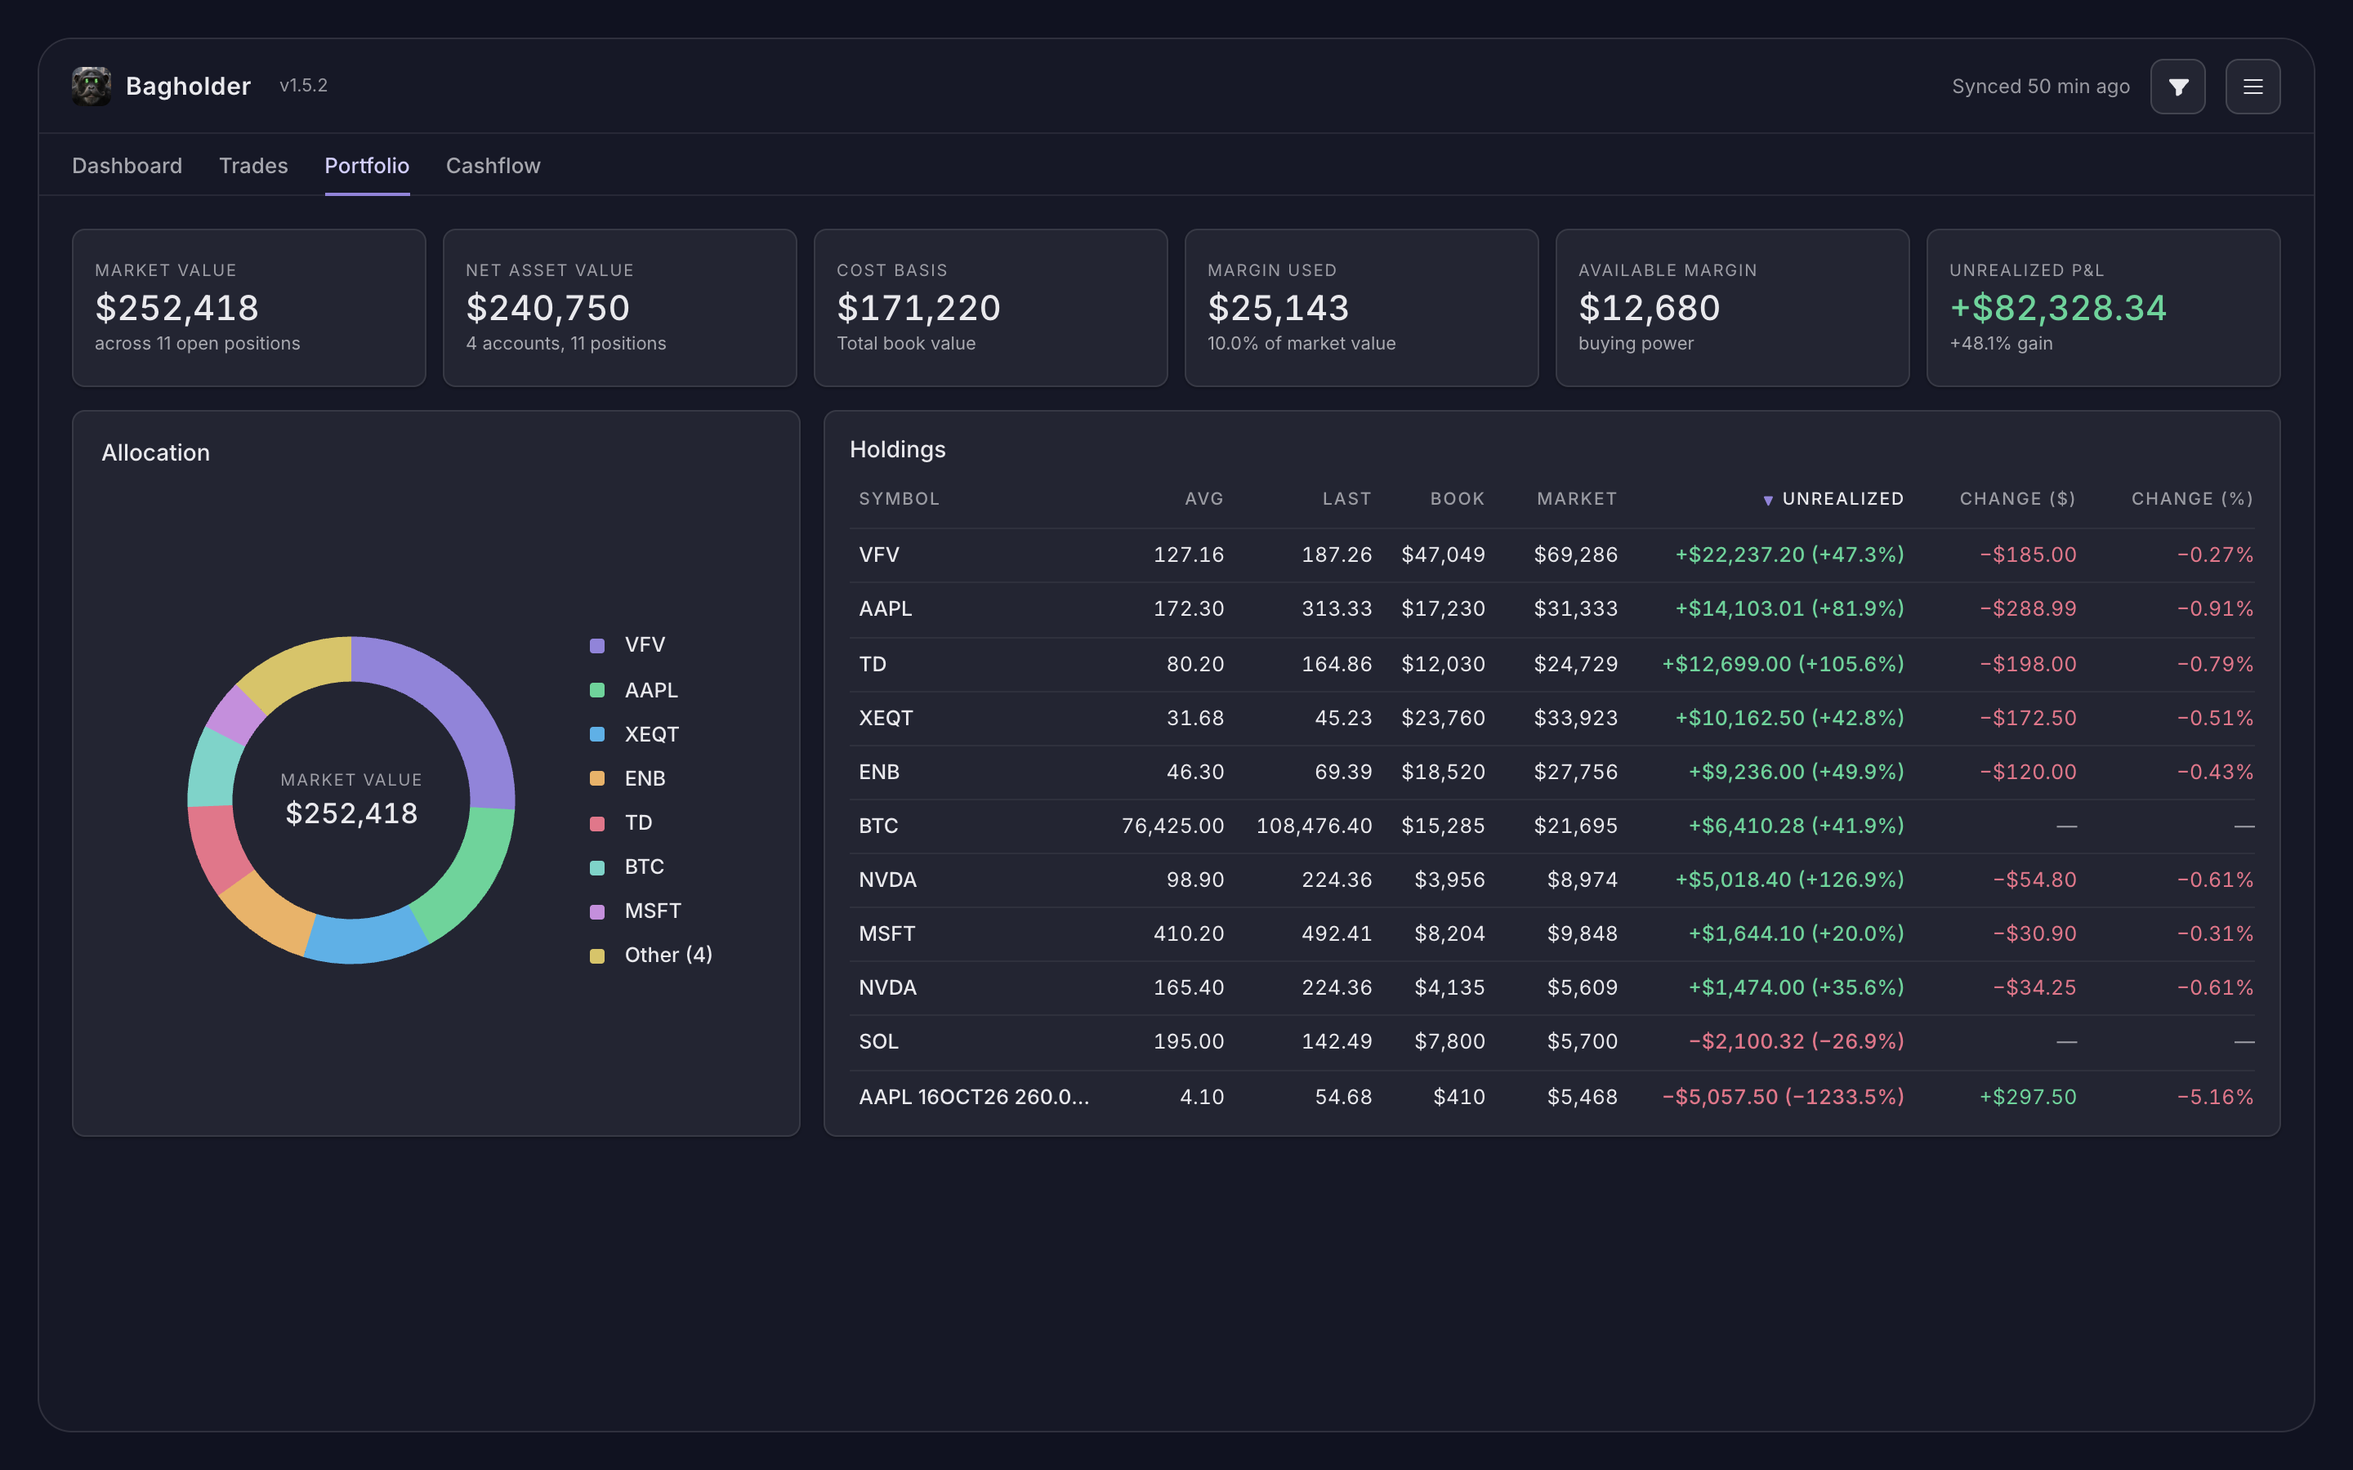
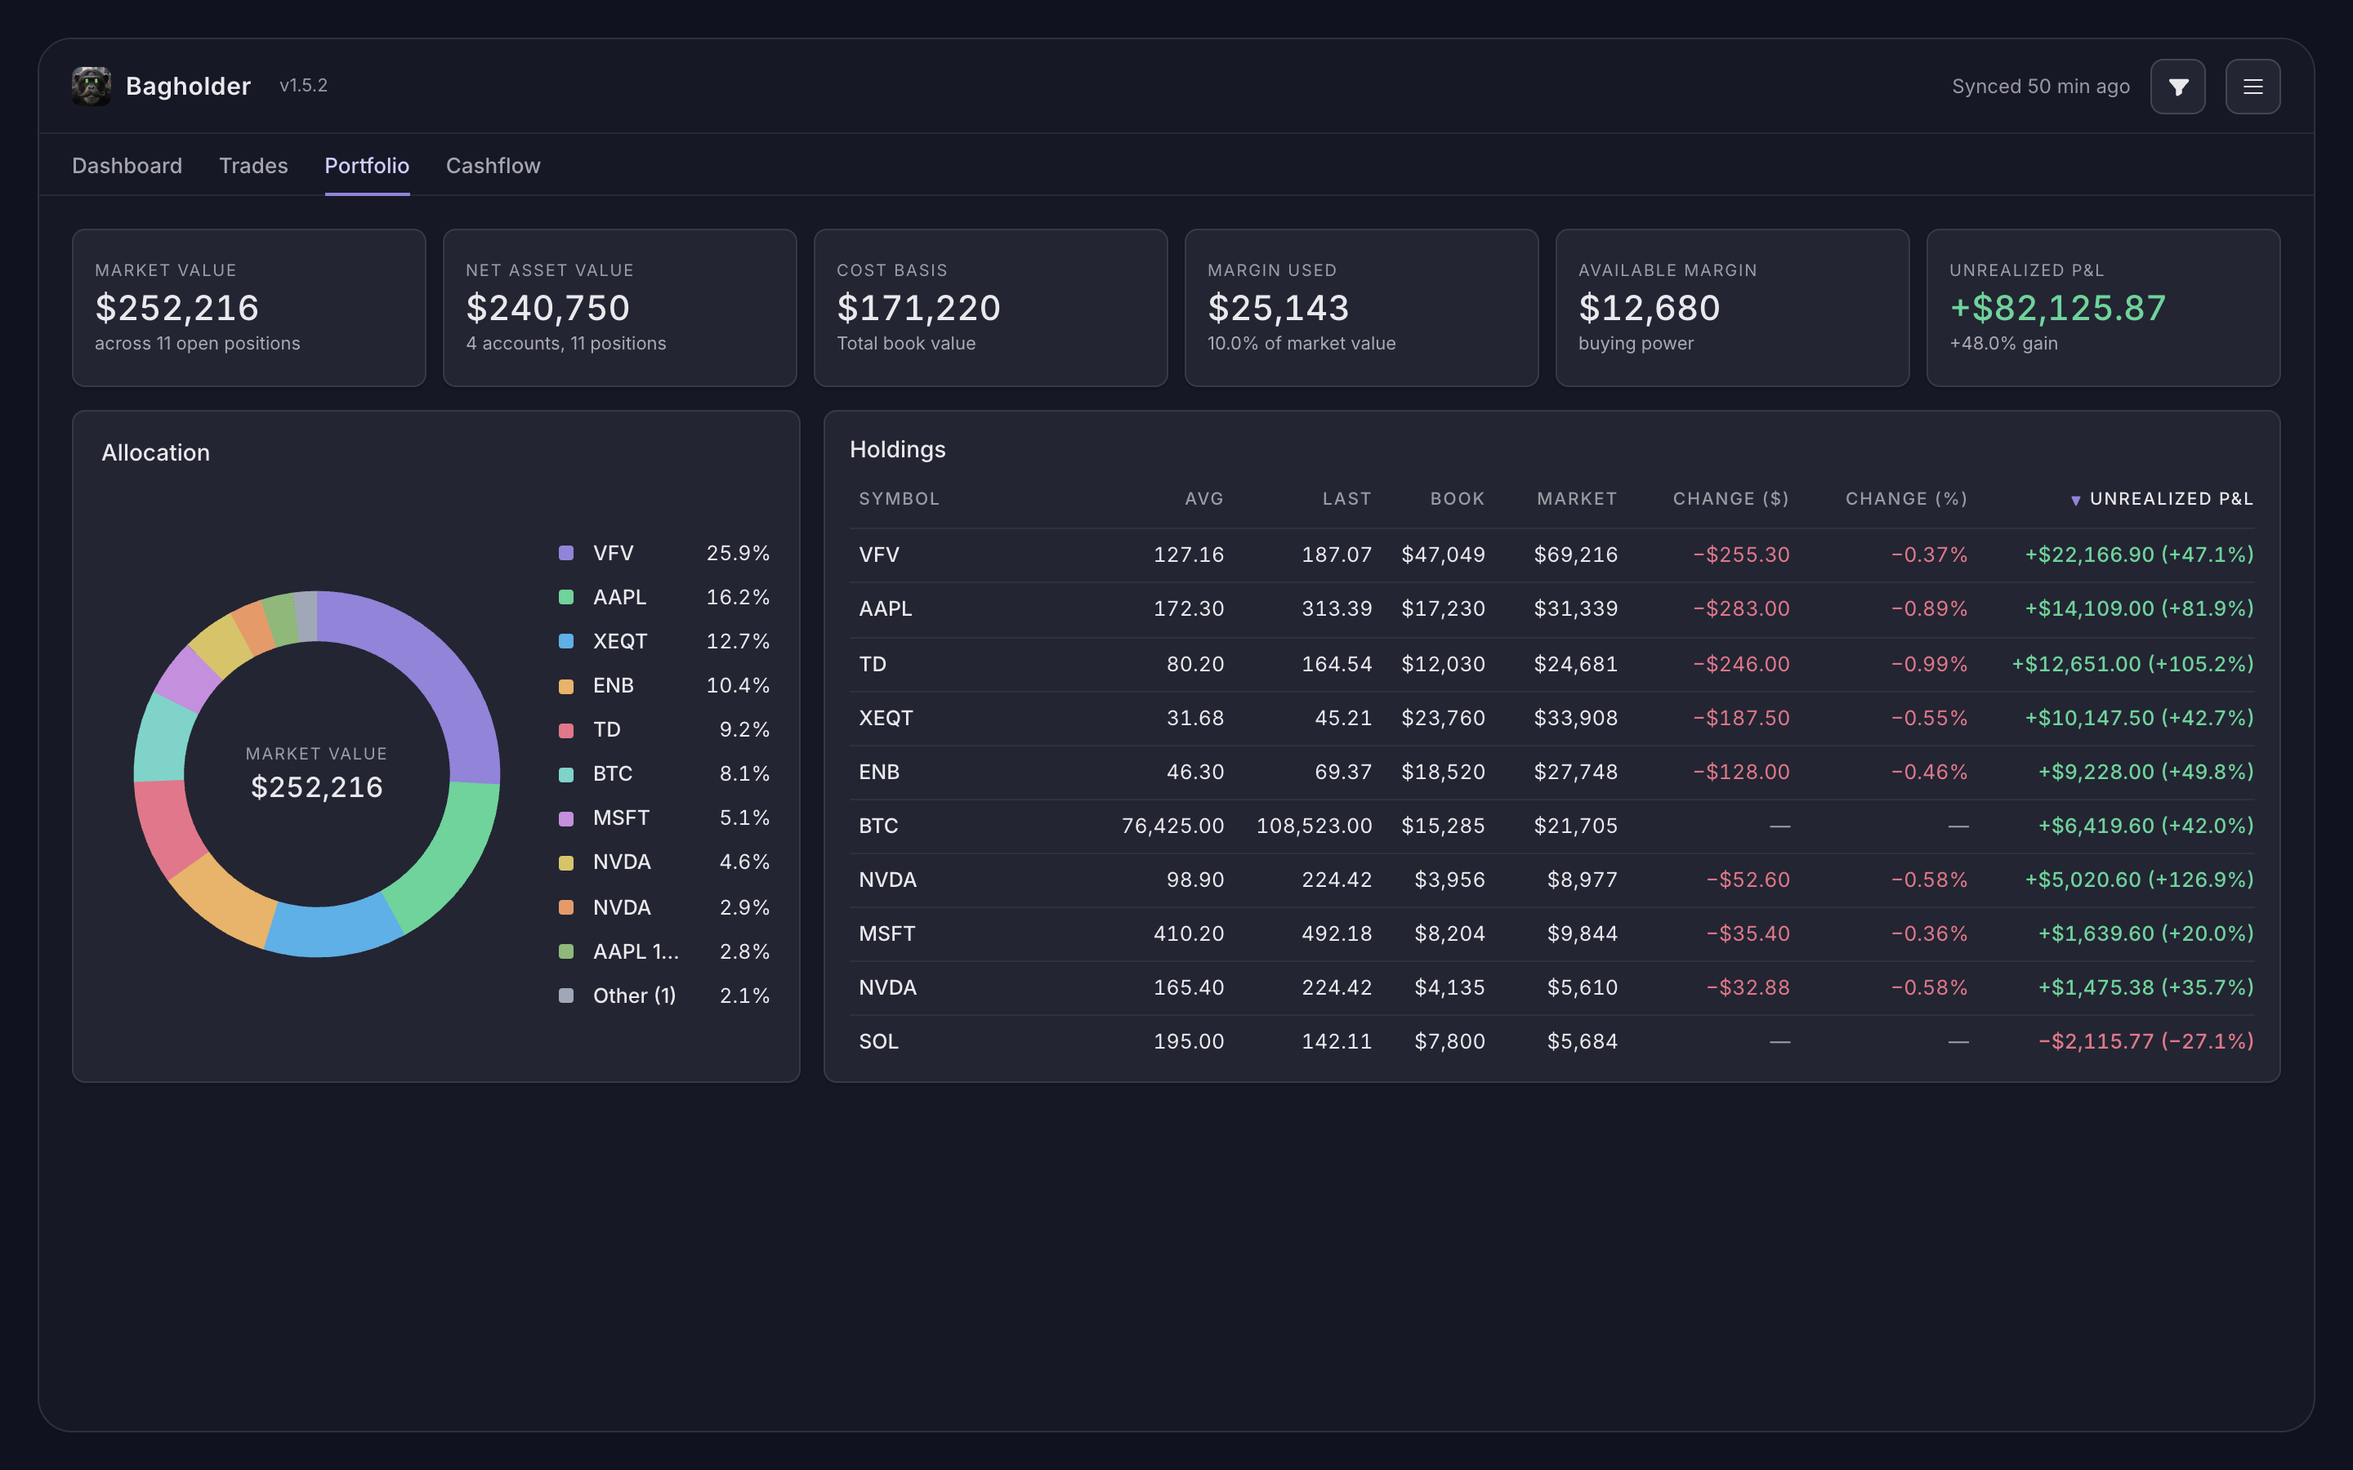
Portfolio: the Allocation card no longer grows with the Holdings card.
Holdings shows ten rows and scrolls inside the card past that, its
columns ending Change ($) · Change (%) · Unrealized P&L. Allocation: a
larger donut sized from the card so it shrinks only below 1440 px, one
slice each up to ten holdings and Other (N) only beyond that, the
legend showing each symbol with its share; three palette colours added
so eleven slices never repeat. SPEC §4 updated; the README desktop
image reshot.

diff --git a/ledger.html b/ledger.html
@@ -18,7 +18,7 @@ html{color-scheme:dark}
   --shadow-sm:0 1px 2px rgba(0,0,0,.28);--shadow-md:0 10px 28px rgba(0,0,0,.45),0 0 0 1px rgba(233,233,237,.06);
   --font:Inter,system-ui,-apple-system,"Segoe UI",Roboto,sans-serif;--font-num:var(--font);--brand-color:var(--ink);--brand-transform:none;--brand-spacing:.02em;--outline:.1;--field:rgba(22,24,38,.55);
   --chip-bg:var(--accent-900);--chip-fg:var(--accent-300);--chip-hi:rgba(145,132,217,.18);
-  --pie-1:#9184d9;--pie-2:#6fd39b;--pie-3:#5fb0e6;--pie-4:#e8b36a;--pie-5:#e0778a;--pie-6:#7fd3c9;--pie-7:#c48fdc;--pie-8:#d7c46a;
+  --pie-1:#9184d9;--pie-2:#6fd39b;--pie-3:#5fb0e6;--pie-4:#e8b36a;--pie-5:#e0778a;--pie-6:#7fd3c9;--pie-7:#c48fdc;--pie-8:#d7c46a;--pie-9:#e59a6a;--pie-10:#8fb87a;--pie-11:#a0a8b8;
   --pos-rgb:111,211,155;--neg-rgb:224,119,138;--accent-rgb:145,132,217;--accent-bar:var(--accent);--hover:.08;--area:.22;--well:var(--n900);--well-line:.12;
 }
 html[data-theme="midnight"]{
@@ -29,7 +29,7 @@ html[data-theme="midnight"]{
   --font-num:ui-monospace,"JetBrains Mono","SF Mono",Menlo,monospace;--outline:.14;--field:rgba(4,5,9,.6);
   --chip-bg:rgba(230,232,238,.1);--chip-fg:rgba(230,232,238,.82);--chip-hi:rgba(230,232,238,.12);
   --pos-rgb:63,214,138;--neg-rgb:255,107,122;--accent-rgb:63,214,138;
-  --pie-1:#3fd68a;--pie-2:#5fb0e6;--pie-3:#9184d9;--pie-4:#e8b36a;--pie-5:#ff6b7a;--pie-6:#7fd3c9;--pie-7:#c48fdc;--pie-8:#d7c46a;
+  --pie-1:#3fd68a;--pie-2:#5fb0e6;--pie-3:#9184d9;--pie-4:#e8b36a;--pie-5:#ff6b7a;--pie-6:#7fd3c9;--pie-7:#c48fdc;--pie-8:#d7c46a;--pie-9:#f0955f;--pie-10:#a3c96f;--pie-11:#9aa4b5;
 }
 html[data-theme="light"]{color-scheme:light;
   --mat:#e0e2ea;--bg:#eef0f5;--surface:#fafafc;--n900:#f1f2f6;--accent:#6b5cd6;--accent-300:#4a3bb8;--accent-900:#e9e6fa;--accent-bar:#a89ee6;
@@ -37,7 +37,7 @@ html[data-theme="light"]{color-scheme:light;
   --hair:rgba(27,29,39,.12);--grid:rgba(27,29,39,.06);--pos:#2e8a62;--neg:#c0505f;--mixed:#9a95c4;--pos-rgb:46,138,98;--neg-rgb:192,80,95;--accent-rgb:107,92,214;
   --shadow-sm:0 1px 2px rgba(20,22,40,.06);--shadow-md:0 10px 28px rgba(20,22,40,.14),0 0 0 1px rgba(27,29,39,.08);
   --outline:.08;--field:rgba(27,29,39,.04);--hover:.045;--area:.16;--well:transparent;--well-line:.09;
-  --pie-1:#a89ee6;--pie-2:#8fd4b4;--pie-3:#93c4ec;--pie-4:#f0c98c;--pie-5:#eea3ae;--pie-6:#9adbd4;--pie-7:#cfaee6;--pie-8:#e0d48c;
+  --pie-1:#a89ee6;--pie-2:#8fd4b4;--pie-3:#93c4ec;--pie-4:#f0c98c;--pie-5:#eea3ae;--pie-6:#9adbd4;--pie-7:#cfaee6;--pie-8:#e0d48c;--pie-9:#f2b592;--pie-10:#b9d69c;--pie-11:#b6bec9;
 }
 *{box-sizing:border-box}
 html,body{margin:0;background:var(--mat);color:var(--ink);color-scheme:dark}
@@ -1210,15 +1210,15 @@ function portfolioTilesHtml(pf) {
 }
 function portfolioSlices(pf) {
   const all = pf.allocation || [];
-  const top = all.slice(0, 7), rest = all.slice(7);
+  const top = all.length > 10 ? all.slice(0, 10) : all, rest = all.slice(top.length);
   const items = top.map((x) => ({ label: x.symbol, v: x.value, share: x.share }));
   if (rest.length) items.push({ label: "Other (" + rest.length + ")", v: rest.reduce((a, x) => a + x.value, 0), share: rest.reduce((a, x) => a + x.share, 0) });
-  items.forEach((x, i) => { x.color = "var(--pie-" + ((i % 8) + 1) + ")"; });
+  items.forEach((x, i) => { x.color = "var(--pie-" + ((i % 11) + 1) + ")"; });
   return { total: pf.marketValue || 0, items };
 }
 function portfolioPieHtml(pf) {
   const p = portfolioSlices(pf);
-  const R = 44, W = 14, C = 60, SIZE = 236;
+  const R = 44, W = 14, C = 60, SIZE = 264;
   let acc = 0;
   const arcs = p.items.map((x, i) => {
     const a0 = acc * 2 * Math.PI - Math.PI / 2, a1 = (acc + x.share) * 2 * Math.PI - Math.PI / 2;
@@ -1230,11 +1230,11 @@ function portfolioPieHtml(pf) {
   }).join("");
   return '<div class="card elev-sm" style="padding:16px 18px 12px;display:flex;flex-direction:column;min-height:0">' +
     '<div style="display:flex;align-items:baseline;justify-content:space-between;gap:8px;margin-bottom:10px"><h5>Allocation</h5></div>' +
-    (p.items.length ? '<div id="ppiePlot" data-hover="ppie" style="display:flex;gap:28px;align-items:center;justify-content:center;flex:1;min-height:0">' +
-      '<div style="position:relative;width:' + SIZE + 'px;height:' + SIZE + 'px;flex:none"><svg viewBox="0 0 120 120" style="width:' + SIZE + 'px;height:' + SIZE + 'px;display:block">' + arcs + "</svg>" +
+    (p.items.length ? '<div id="ppiePlot" data-hover="ppie" style="display:flex;gap:16px;align-items:center;justify-content:center;flex:1;min-height:0">' +
+      '<div style="position:relative;flex:none;width:max(200px, min(' + SIZE + 'px, 100% - 140px));aspect-ratio:1/1"><svg viewBox="0 0 120 120" style="width:100%;height:100%;display:block">' + arcs + "</svg>" +
       '<div id="ppieCentre" style="position:absolute;inset:0;display:flex;flex-direction:column;align-items:center;justify-content:center;text-align:center;pointer-events:none"><div class="lbl">Market value</div><div class="tab" style="font-size:17px;font-weight:500;margin-top:2px">' + money0(p.total) + "</div></div></div>" +
-      '<div id="ppieLegend" class="scroll" style="flex:none;min-width:0;min-height:0;max-height:100%;display:grid;grid-template-columns:auto auto;column-gap:12px;row-gap:9px;align-content:center;align-items:center;font-size:12.5px">' +
-      p.items.map((x, i) => '<span data-slice="' + i + '" style="display:contents"><span style="width:9px;height:9px;border-radius:2px;background:' + x.color + '"></span><span style="font-weight:500;font-variant-numeric:normal;white-space:nowrap;overflow:hidden;text-overflow:ellipsis">' + esc(x.label) + "</span></span>").join("") +
+      '<div id="ppieLegend" class="scroll" style="flex:0 1 auto;min-width:0;min-height:0;max-height:100%;display:grid;grid-template-columns:auto minmax(0,1fr) auto;column-gap:12px;row-gap:9px;align-content:center;align-items:center;font-size:12.5px">' +
+      p.items.map((x, i) => '<span data-slice="' + i + '" style="display:contents"><span style="width:9px;height:9px;border-radius:2px;background:' + x.color + '"></span><span style="font-weight:500;font-variant-numeric:normal;white-space:nowrap;overflow:hidden;text-overflow:ellipsis">' + esc(x.label) + '</span><span class="tab" style="text-align:right;white-space:nowrap">' + pctPlain(x.share) + "</span></span>").join("") +
       "</div></div>" : '<div class="muted empty" style="flex:1;font-size:12px">No open positions in scope.</div>') + "</div>";
 }
 function ppieHover(e) {
@@ -1253,20 +1253,20 @@ function portfolioHtml(m) {
   const p = state.sel ? positionById(state.sel) : null;
   if (p) return '<div style="padding:20px;min-height:380px;display:flex;flex-direction:column;gap:14px">' + tradeDetailHtml(holdingAsTrade(p), m) + "</div>";
   const pf = m.portfolio || {};
-  const cols = [{ key: "symbol", label: "Symbol" }, { key: "avg", label: "Avg", align: "right" }, { key: "last", label: "Last", align: "right" }, { key: "cost", label: "Book", align: "right" }, { key: "mv", label: "Market", align: "right" }, { key: "unreal", label: "Unrealized", align: "right" }, { key: "day", label: "Change ($)", align: "right" }, { key: "dayPct", label: "Change (%)", align: "right", padRight: "0" }];
+  const cols = [{ key: "symbol", label: "Symbol" }, { key: "avg", label: "Avg", align: "right" }, { key: "last", label: "Last", align: "right" }, { key: "cost", label: "Book", align: "right" }, { key: "mv", label: "Market", align: "right" }, { key: "day", label: "Change ($)", align: "right" }, { key: "dayPct", label: "Change (%)", align: "right" }, { key: "unreal", label: "Unrealized P&L", align: "right", padRight: "0" }];
   const s = state.sort.positions;
   const rows = sortRows(m.positions || [], s.key, s.dir, posSortValue);
   return '<div style="padding:20px;min-height:380px;display:flex;flex-direction:column;gap:14px">' + portfolioTilesHtml(pf) +
     '<div style="display:grid;grid-template-columns:minmax(0,1fr) minmax(0,2fr);gap:14px;align-items:stretch">' + portfolioPieHtml(pf) +
-    '<div class="card elev-sm" style="padding:14px 16px 8px;display:flex;flex-direction:column;min-height:0;max-height:640px"><div style="display:flex;align-items:baseline;gap:10px;margin-bottom:8px"><h5>Holdings</h5></div>' +
-    '<div class="scroll-xy" data-keep-scroll="positions" style="flex:1;min-height:0"><table class="table" style="min-width:640px"><thead><tr>' + th("positions", cols) + "</tr></thead><tbody>" +
+    '<div class="card elev-sm" style="padding:14px 16px 8px;display:flex;flex-direction:column;min-height:0"><div style="display:flex;align-items:baseline;gap:10px;margin-bottom:8px"><h5>Holdings</h5></div>' +
+    '<div class="scroll-xy" data-keep-scroll="positions" style="flex:1;min-height:0;max-height:362px"><table class="table" style="min-width:640px"><thead><tr>' + th("positions", cols) + "</tr></thead><tbody>" +
     rows.map((r) => '<tr class="tab" style="cursor:pointer" data-act="openHolding" data-arg=\'' + attr({ id: r.id }) + "'>" +
       '<td title="' + esc(r.symbol) + ' · ' + esc(r.account) + '" style="font-weight:500;font-variant-numeric:normal;white-space:nowrap;max-width:140px;overflow:hidden;text-overflow:ellipsis">' + esc(r.symbol) + (r.short ? ' <span class="muted" style="font-size:10px">SHORT</span>' : "") + "</td>" +
       '<td style="text-align:right">' + px(r.avg) + '</td><td style="text-align:right">' + px(r.last) + "</td>" +
       '<td style="text-align:right">' + money0(r.cost, r.currency) + '</td><td style="text-align:right">' + money0(r.mv, r.currency) + "</td>" +
-      '<td style="text-align:right;white-space:nowrap;font-weight:500;color:' + color(r.unreal) + '">' + signedMoney(r.unreal, r.currency) + " (" + pct(r.unrealPct) + ")</td>" +
       '<td style="text-align:right;white-space:nowrap;color:' + (r.dayChange == null ? "var(--ink55)" : color(r.dayChange)) + '">' + (r.dayChange == null ? "—" : signedMoney(r.dayChange, r.currency)) + "</td>" +
-      '<td style="text-align:right;padding-right:0;color:' + (r.percentChange == null ? "var(--ink55)" : color(r.percentChange)) + '">' + (r.percentChange == null ? "—" : pct(r.percentChange / 100, 2)) + "</td></tr>").join("") +
+      '<td style="text-align:right;color:' + (r.percentChange == null ? "var(--ink55)" : color(r.percentChange)) + '">' + (r.percentChange == null ? "—" : pct(r.percentChange / 100, 2)) + "</td>" +
+      '<td style="text-align:right;padding-right:0;white-space:nowrap;font-weight:500;color:' + color(r.unreal) + '">' + signedMoney(r.unreal, r.currency) + " (" + pct(r.unrealPct) + ")</td></tr>").join("") +
     "</tbody></table>" + (rows.length ? "" : '<div class="muted" style="padding:26px 4px;font-size:12px">No open positions match these filters.</div>') + "</div></div></div></div>";
 }
 

diff --git a/SPEC.md b/SPEC.md
@@ -207,9 +207,9 @@ Six tiles in the style of the dashboard tiles, CAD aggregates over the accounts 
 
 Nothing on the tab is derived beyond these sums: Max buying power, Portfolio value and the interest panel of Wealthsimple's margin page have no source and are not shown.
 
-**Allocation.** A donut of the open positions in scope by market value in CAD, the seven largest and `Other (N)`, coloured from the eight-colour palette; the centre reads `Market value` and the total, or the hovered slice's value and share; the legend is the symbols. No toggle.
+**Allocation.** A donut of the open positions in scope by market value in CAD, one slice each up to ten, otherwise the ten largest and `Other (N)`, coloured from the eleven-colour palette; the centre reads `Market value` and the total, or the hovered slice's value and share; the legend is each slice's symbol and share. The card takes the height of the Holdings card beside it and does not grow. No toggle.
 
-**Holdings.** One row per open position: Symbol (`SHORT` on a short; the account is the row's title text, not shown) · Avg (average cost per unit) · Last (the current price) · Book · Market · Unrealized (`+$20.05 (+3.4%)`) · Change ($) · Change (%), sorted by Unrealized; the two Change columns are the day's move on the position from its quote's change and percent change, `—` without a quote. Avg, Last, Book, Market and the changes are in the position's currency.
+**Holdings.** One row per open position: Symbol (`SHORT` on a short; the account is the row's title text, not shown) · Avg (average cost per unit) · Last (the current price) · Book · Market · Change ($) · Change (%) · Unrealized P&L (`+$20.05 (+3.4%)`), sorted by Unrealized P&L; the two Change columns are the day's move on the position from its quote's change and percent change, `—` without a quote. Avg, Last, Book, Market and the changes are in the position's currency. The table shows ten rows and scrolls inside the card past that.
 
 **A holding.** Clicking a row opens the holding on the page a trade opens (§Trades), the position standing in for the trade: the symbol, name and listing; the unrealized P&L and its percentage at the top right; the chart with the fills so far; Open, Close (blank, since it is open), Entry (average cost), Exit (the current price), Hold (the days so far), Account; the executions; the thesis, grade and tags. The holding and the trade it becomes when it closes share one journal entry, keyed by the round trip that opened it, so what is written here is the trade's journal on that day.
 
